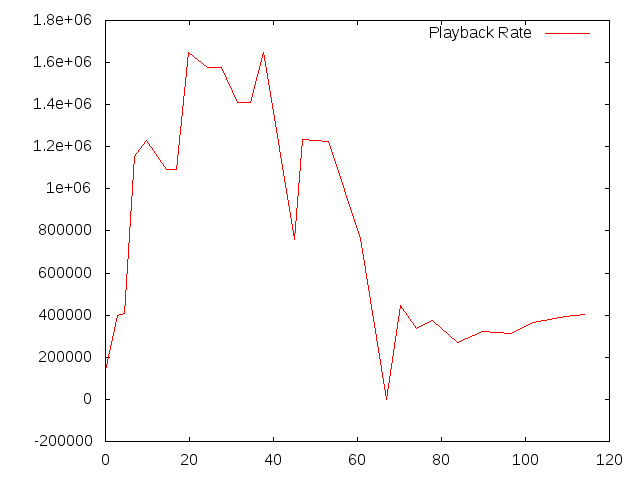
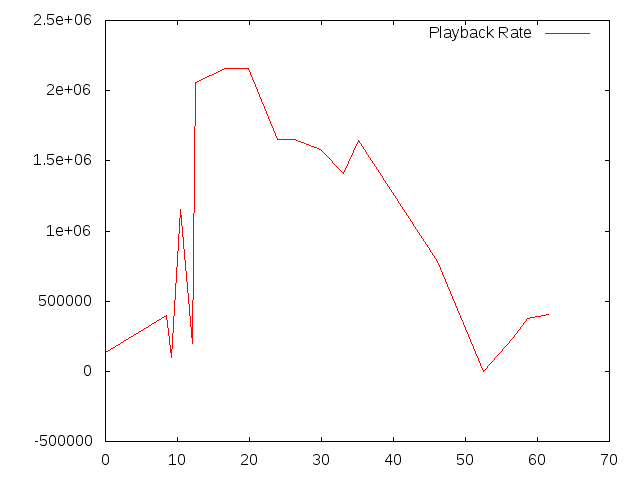
graphing throughput

diff --git a/mahimahi/filters/convert_mahimahi_to_graph_input.py b/mahimahi/filters/convert_mahimahi_to_graph_input.py
@@ -1,0 +1,26 @@
+#!/usr/bin/env python
+import sys
+f = open(sys.argv[1])
+
+MIN_DELTA=200
+
+previous_time = 0
+num_bytes = 0
+delta = 1
+for line in f:
+    tokens = line.split()
+    if(tokens[0] != "#"  and tokens[1] == "-"):
+        time = int(tokens[0])
+        if time - previous_time > MIN_DELTA:
+            num_kbits = num_bytes *8 / 1000.0
+            kbps = num_kbits / (delta)
+            print previous_time/1000.0, kbps
+            delta = time - previous_time
+            num_bytes = float(tokens[2])
+            previous_time = time
+        else:
+            num_bytes += float(tokens[2])
+
+num_kbits = num_bytes *8 / 1000.0
+kbps = num_kbits / (delta)
+print time/1000.0, kbps
